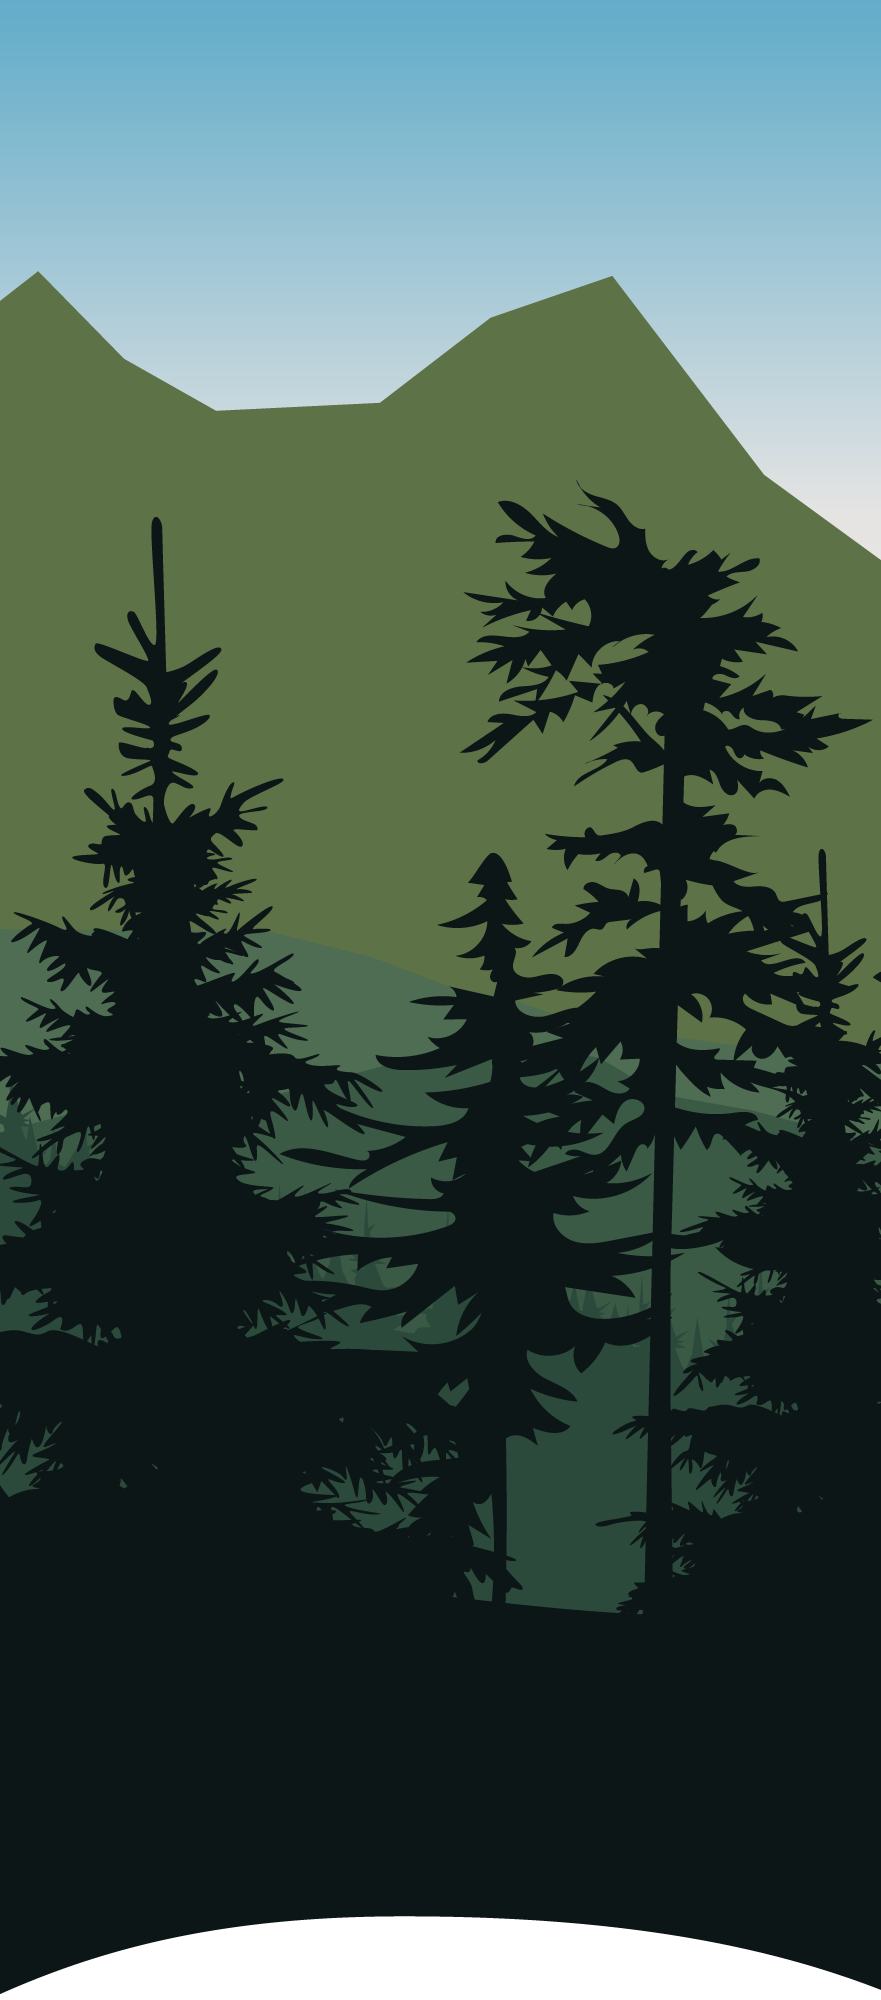
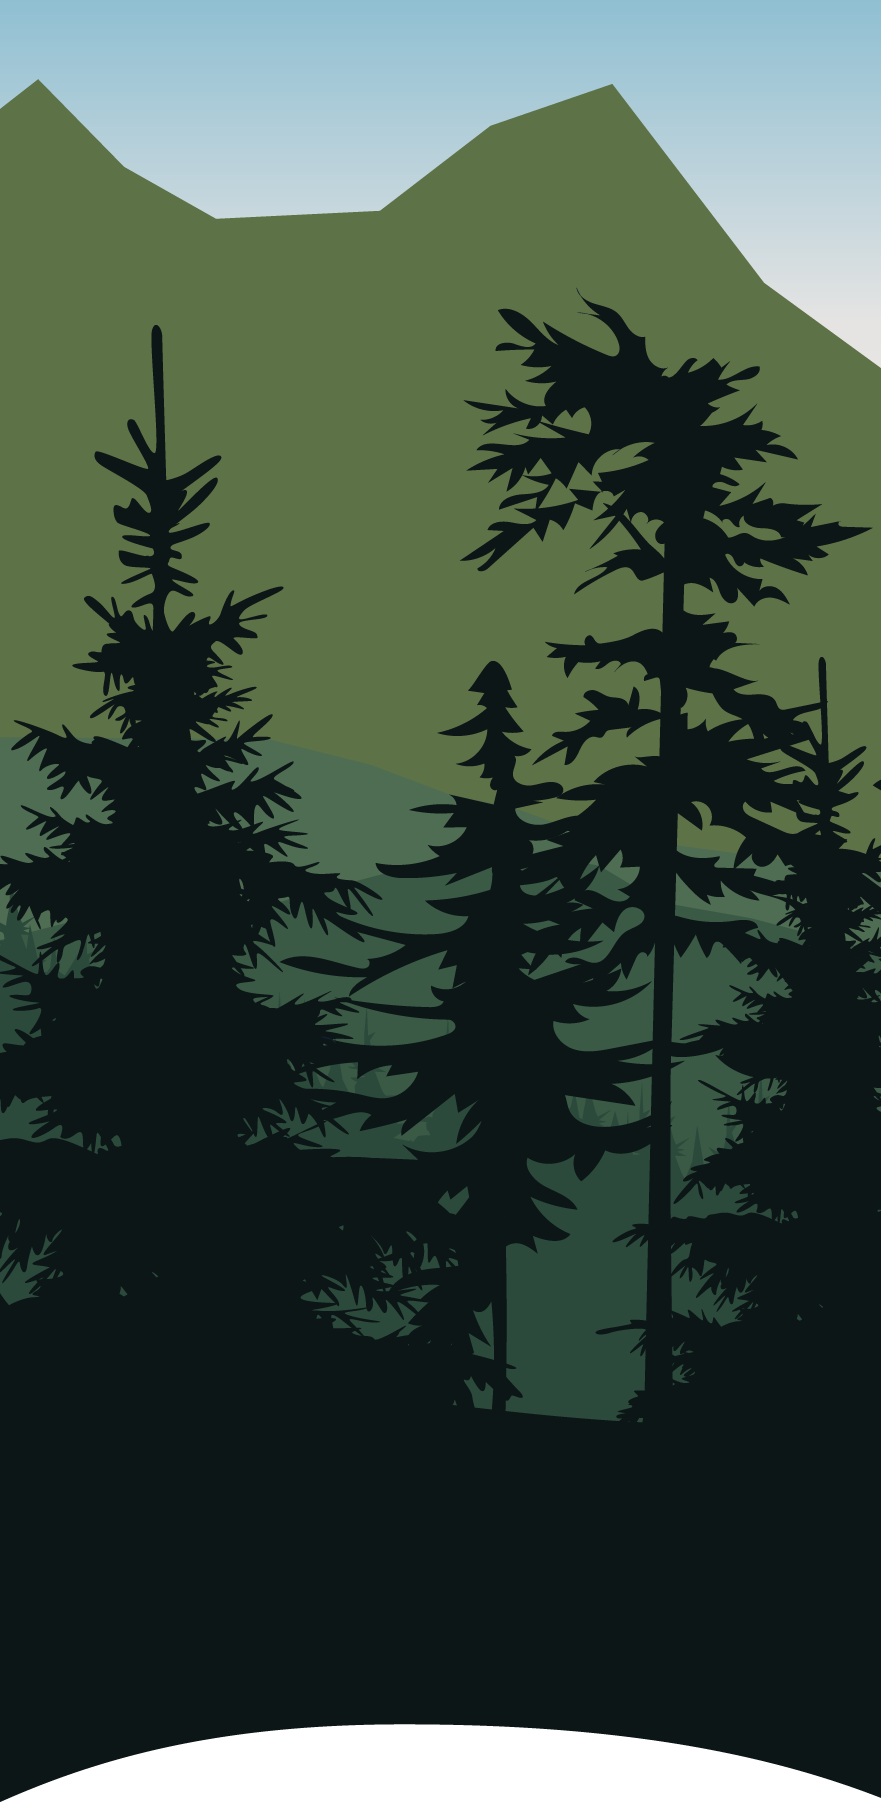
design(App): fix landing, slider stroke, menu dropdown in mobile responsive

diff --git a/assets/css/style.css b/assets/css/style.css
@@ -56,6 +56,10 @@ body {
     width: 100%;
 }
 
+:root {
+    --primary-color-rgb: 19, 99, 19;
+    --primary-color: #125C12;
+}
 
 body {
     color: #777;
@@ -150,9 +154,9 @@ fieldset {
     box-shadow: 0px 20px 50px 0px rgba(153, 153, 153, 0.1); 
 } 
 .btn:hover, input[type="submit"]:hover {
-    color: #125C12;
+    color: var(--primary-color);
     background: #fff;
-    border: 1px solid #125C12;
+    border: 1px solid var(--primary-color);
 }
 
 .btn-white {
@@ -265,25 +269,6 @@ img {
     height: 100px;
 }
 
-:root {
-    --primary-color: 19, 99, 19;
-}
-
-
-
-
-/* Gradient Color Background Css */
-
-.gradient-bg {
-    box-shadow: 0px 10px 15px 0px rgb(var(--primary-color));
-    background: rgb(var(--primary-color));
-    background: -moz-linear-gradient(45deg,  rgb(var(--primary-color)) 0%, rgb(var(--primary-color)) 7%, rgb(var(--primary-color)) 17%, rgb(var(--primary-color)) 42%, rgb(var(--primary-color)) 56%, rgb(var(--primary-color)) 68%, rgb(var(--primary-color)) 83%, rgb(var(--primary-color)) 95%, rgb(var(--primary-color)) 100%);
-    background: -webkit-linear-gradient(45deg,  rgb(var(--primary-color)) 0%,rgb(var(--primary-color)) 7%,rgb(var(--primary-color)) 17%,rgb(var(--primary-color)) 42%,rgb(var(--primary-color)) 56%,rgb(var(--primary-color)) 68%,rgb(var(--primary-color)) 83%,rgb(var(--primary-color)) 95%,rgb(var(--primary-color)) 100%);
-    background: linear-gradient(45deg,  rgb(var(--primary-color)) 0%,rgb(var(--primary-color)) 7%,rgb(var(--primary-color)) 17%,rgb(var(--primary-color)) 42%,rgb(var(--primary-color)) 56%,rgb(var(--primary-color)) 68%,rgb(var(--primary-color)) 83%,rgb(var(--primary-color)) 95%,rgb(var(--primary-color)) 100%);
-    filter: progid:DXImageTransform.Microsoft.gradient( startColorstr='#818aff', endColorstr='#ff74b6',GradientType=1 );
-}
-
-
 /* flex box css */
 .d-flex {
     display: flex;
@@ -324,7 +309,7 @@ img {
 }
 
 .menu-area.sticky-menu {
-    background: rgb(var(--primary-color));
+    background: rgb(var(--primary-color-rgb));
 }
 
 .sticky-menu {
@@ -367,17 +352,17 @@ img {
     padding: 0;
     font-size: 36px;
     display: flex;
-    color: #125C12;
+    color: var(--primary-color);
     align-items: center;
     text-transform: uppercase;
 }
 
 .navbar-brand span {
-    color: #125C12;
+    color: var(--primary-color);
 }
 
 .navbar-brand:hover {
-    color: #125C12;
+    color: var(--primary-color);
 }
 
 .navbar-nav li a {
@@ -408,7 +393,7 @@ img {
 
 .navbar-nav a.btn:hover {
     color: #fff;
-    background: rgb(var(--primary-color));
+    background: rgb(var(--primary-color-rgb));
 }
 
 
@@ -606,7 +591,7 @@ img {
 .hero-box:hover i.fa,
 .hero-box:hover span.lnr {
     color: #fff;
-    background: rgb(var(--primary-color));
+    background: rgb(var(--primary-color-rgb));
     box-shadow: 0px 20px 50px 0px rgba(46, 125, 50, 0.4);
 }
 
@@ -792,7 +777,7 @@ img {
 *                                   06. Action area css
 * --------------------------------------------------------------------------------------- */
 .action-area {
-    background: rgb(var(--primary-color));
+    background: rgb(var(--primary-color-rgb));
     filter: progid:DXImageTransform.Microsoft.gradient( startColorstr='#58c9f6', endColorstr='#a306f8', GradientType=1 );
 }
 
@@ -862,10 +847,11 @@ img {
 
 .screen {
     text-align: center;
-    margin-left: 20px;
-    margin-right: 20px;
+    margin-left: auto;
+    margin-right: auto;
     margin-bottom: 20px;
     margin-top: 10px;
+    max-width: 250px;
 }
 
 .screen img {
@@ -990,7 +976,7 @@ footer a:hover {
  .contact-box span:hover {
     color: #fff;
     box-shadow: 0px 20px 50px 0px rgba(46, 125, 50, 0.2);
-    background: rgb(var(--primary-color));
+    background: rgb(var(--primary-color-rgb));
 }
 
 .contact-form-area {
@@ -1081,7 +1067,7 @@ polyline {
     right: 0;
     bottom: 0;
     /* Use the same gradient as the original sticky-menu */
-    background: rgb(var(--primary-color));
+    background: rgb(var(--primary-color-rgb));
     opacity: 0;
     transition: opacity 0.2s ease-in-out;
     pointer-events: none; /* don’t block clicks */

diff --git a/index.html b/index.html
@@ -115,7 +115,10 @@
                     <!-- slider text -->
                     <div class="col-md-6 col-sm-12 col-xs-12">
                         <div class="slider-text clearfix">
-                            <img class="slider-logo" src="assets/img/huki_logo_with_icon_v2.svg" alt="HuKi Hero Logo">
+                            <picture>
+                                <source media="(max-width: 767px)" srcset="assets/img/huki_logo_with_icon_v2_extra_stroke.svg">
+                                <img class="slider-logo" src="assets/img/huki_logo_with_icon_v2.svg" alt="HuKi Logo">
+                            </picture>
                             <h1 class="stroked" data-i18n="slider_title">A Magyar Túra App</h1>
                             <p class="stroked" data-i18n="slider_message">HuKi egy ingyenes túra térkép túrázóknak és természetjáróknak, amely integrálódik a magyarországi túraútvonalakkal. A projekt legfőbb célja, hogy segítséget nyújtson kirándulásaink során és hogy népszerűsítse a gyönyörű magyar tájaink felfedezését. A HuKi ingyenes, reklámmentes és nyílt forráskódú szoftver.</p>
 

diff --git a/assets/css/responsive.css b/assets/css/responsive.css
@@ -94,7 +94,11 @@
     .navbar-fixed-bottom .navbar-collapse,
     .navbar-fixed-top .navbar-collapse {
         background: #fff;
-        margin-top: 15px;
+        background: var(--primary-color);
+        margin-top: 10px;
+        padding-top: 10px;
+        padding-bottom: 10px;
+        border-radius: 10px;
         box-shadow: 0px 20px 50px 0px rgba(153, 153, 153, 0.1); 
     }
     .navbar {
@@ -108,8 +112,8 @@
         display: block;
     }
     .mainmenu .navbar-nav li a {
-        padding: 11px 15px;
-        color: inherit;
+        padding: 15px 15px;
+        color: #fff;
     }
     .navbar-fixed-bottom .navbar-collapse,
     .navbar-fixed-top .navbar-collapse {
@@ -121,8 +125,13 @@
     /* Slider Css Starts */
     .slider-area {
         background-image: url("../img/bg/huki_landing_v2_mobile.png");
+        padding-top: 40px;
     }
 
+    .stroked {
+        -webkit-text-stroke: 3px #0C1617;
+        paint-order: stroke fill;
+    }
 
     /* Slider Css Starts */
     .intro-text {

diff --git a/README.md b/README.md
@@ -14,6 +14,11 @@ A showcase website is created for:
 - Deeplinking
 - FAQ, About, Privacy Policy etc. 
 
+## Release steps
+
+1. Push to main (it will upload the web-app to AWS S3 Bucket)
+2. Go to AWS Console - CloudFront - Invalidations with all path ``/*``
+
 ## Project License
 
 ```
